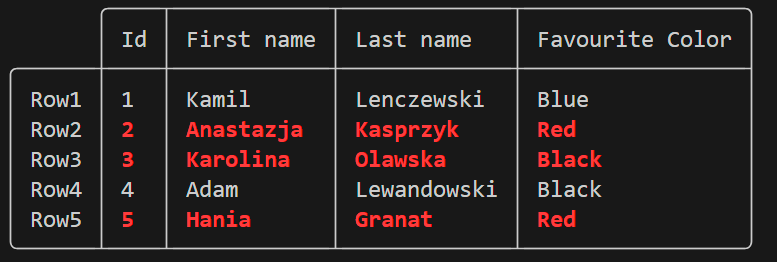
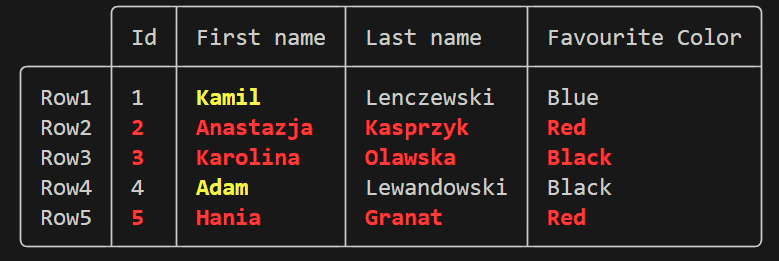
Color mesh added

Changed region(s): [[0.0, 0.0, 0.9884, 0.9808]]

diff --git a/smoothtable/painter.py b/smoothtable/painter.py
@@ -1,22 +1,46 @@
 from typing import Iterable
-from color_condition import ColorCondition
-from extra_variable import ExtraVariable
-from utils import columnsToRowsGen, rowsToColumns
-from constants import COLORS, TEXT_STYLES
 
+from .color_condition import ColorCondition
+from .extra_variable import ExtraVariable
+from .utils import columnsToRowsGen, rowsToColumns, returnList, columnsToRows
+from .constants import COLORS, TEXT_STYLES
+
+
+
+
+class ColorItem:
+    def __init__(self, color=None, style=None):
+        self.color = color
+        self.style = style
+
+    def isEmpty(self):
+        return not self.color and not self.style
 
 def paintString(string, color, style):
-    color = COLORS[color]
-    style = TEXT_STYLES[style]
+    color = COLORS[color] if color else ""
+    style = TEXT_STYLES[style] if style else ""
+
     string = color + style + "{}\033[0m".format(string)
+
     return string
+
+@returnList
+def emptyColumnMesh(size):
+    for _ in range(size):
+        yield ColorItem()
+
+@returnList
+def emptyColumnsMesh(columnsAmount, columnSize):
+    for _ in range(columnsAmount):
+        yield emptyColumnMesh(columnSize)
 
 
 class Painter:
     def __init__(self, colorConditions: Iterable[ColorCondition]):
-        self.colorConditions = colorConditions
+        self.colorConditions = colorConditions        
 
-    def paintArray(self, array, condition: ColorCondition):
+    @returnList
+    def createColumnColorMesh(self, condition, array):
         extra = ExtraVariable()
 
         if condition.initMethod:
@@ -26,30 +50,64 @@ class Painter:
             args = [locals()[argName] for argName in condition.args]
 
             if condition.method(*args):
-                yield paintString(item, condition.color, condition.style)
+                yield ColorItem(condition.color, condition.style)
             else:
-                yield item           
-    
+                yield ColorItem()
 
-    def paintArrays(self, arrays, condition: ColorCondition):
-        for array in arrays:
-            yield list(self.paintArray(array, condition))
+    @returnList
+    def createColorMesh(self, condition, columns):
+        for column in columns:
+            yield self.createColumnColorMesh(condition, column)
 
-    def paint(self, columns):
+    @returnList
+    def createColorMeshes(self, arrays):
         for condition in self.colorConditions:
-            match(condition.type):
-                case 'column':
-                    columns = list(self.paintArrays(columns, condition))
-                case 'row':
-                    rows = columnsToRowsGen(columns)
-                    rows = list(self.paintArrays(rows, condition))
-                    columns = rowsToColumns(rows)
+            if condition.type == 'row':
+                rows = columnsToRows(arrays)
+                mesh = self.createColorMesh(condition, rows)
+                mesh = rowsToColumns(mesh)
+                yield mesh
+            
+            if condition.type == 'column':
+                yield self.createColorMesh(condition, arrays)
+            
+    def mergeMeshes(self, meshes, columnsAmount, columnSize):
+        finalMesh = emptyColumnsMesh(columnsAmount, columnSize)
 
-        return columns
+        for mesh in meshes:
+            for column, finalColumn in zip(mesh, finalMesh):
+                for item, finalItem in zip(column, finalColumn):
+                    if item.isEmpty():
+                        continue
+
+                    if not finalItem.color:
+                        finalItem.color = item.color
+                    
+                    if not finalItem.style:
+                        finalItem.style = item.style
+        
+        return finalMesh
+
+    def createMesh(self, columns, columnsAmount, columnSize):
+        meshes = self.createColorMeshes(columns) 
+        finalMesh = self.mergeMeshes(meshes, columnsAmount, columnSize)
+        return finalMesh
+
+
+    @returnList
+    def applyMeshToColumn(self, column, columnMesh):
+        for stringItem, colorItem in zip(column, columnMesh):
+            yield paintString(stringItem, colorItem.color, colorItem.style)
+
+    @returnList
+    def applyMesh(self, columns, mesh):
+        for column, columnMesh in zip(columns, mesh):
+            yield self.applyMeshToColumn(column, columnMesh)
+
 
 def main():
     cond = ColorCondition(
-        type='row',
+        type='column',
         args='item',
         method=lambda item: len(item) == 3,
         color='red',

diff --git a/smoothtable/table.py b/smoothtable/table.py
@@ -1,6 +1,11 @@
 from typing import Iterable
 
-from utils import rowsToColumns, stringifyColumns, leftConcat
+from .utils import (
+    rowsToColumns, stringifyColumns, leftConcat, 
+    adjustColumns, adjustLabels, adjustLabelsGen
+)
+
+from .painter import Painter
 
 HORIZONTAL_LINE = '─'
 
@@ -42,20 +47,7 @@ def maxStringLengthGen(columns):
         biggestLength = len(longestString)
         yield biggestLength
 
-def adjustLabels(labels, lengths):
-    if isinstance(lengths, int):
-        lengths = [lengths for _ in range(len(labels))]
 
-    for label, wantedLength in zip(labels, lengths):
-        yield label.ljust(wantedLength, SPACE)
-
-def adjustColumn(column, stringLength):
-    for item in column:
-        yield item.ljust(stringLength, SPACE)
-
-def adjustColumns(columns, maxTextLentghs):
-    for column, maxLength in zip(columns, maxTextLentghs):
-        yield list(adjustColumn(column, maxLength))
 
 
 def mergeLabelsAndColumnsGen(labels, columns):
@@ -134,30 +126,35 @@ def createTable(columnLabels: Iterable[str],
                 rowLabels=None, 
                 columns=None, 
                 rows=None, 
-                painter=None):
+                painter: Painter=None):
 
     validateArgs(columnLabels, rowLabels, columns, rows, painter)
 
     if rows:
         columns = rowsToColumns(rows)
 
-    columns = stringifyColumns(columns)
+    columnsAmount = len(columns)
+    columnSize = len(columns[0])
 
-    labelsAndColumns = mergeLabelsAndColumnsGen(columnLabels, columns)
+    colorMesh = painter.createMesh(columns, columnsAmount, columnSize)
+
+    stringifiedColumns = stringifyColumns(columns)
+
+    labelsAndColumns = mergeLabelsAndColumnsGen(columnLabels, stringifiedColumns)
     maxTextLentghs = list(maxStringLengthGen(labelsAndColumns))
     separationLines = [length * HORIZONTAL_LINE for length in maxTextLentghs]
 
     columnLabels = list(adjustLabels(columnLabels, maxTextLentghs))
-    columns = list(adjustColumns(columns, maxTextLentghs))
+    stringifiedColumns = list(adjustColumns(stringifiedColumns, maxTextLentghs))
 
     if painter:
-       columns = painter.paint(columns)
+       stringifiedColumns = painter.applyMesh(stringifiedColumns, colorMesh)
 
     areRowLabels = rowLabels != None
     areColumnLabels = columnLabels != None
 
     columnLabelsStringLines = createColumnLabelsStringLines(columnLabels, separationLines, areRowLabels)
-    rowsStringLines = createRowsStringLines(columns)
+    rowsStringLines = createRowsStringLines(stringifiedColumns)
     endSegment = createEndSegment(separationLines, areRowLabels)
     
     allLines = columnLabelsStringLines + rowsStringLines + [endSegment]
@@ -175,7 +172,7 @@ def createRowLabelsStringLines(rowLabels):
             yield LEFT_VERTICAL_LINE + label + SPACE
 
     maxLength = len(max(rowLabels, key=len))
-    labels = adjustLabels(rowLabels, maxLength)
+    labels = adjustLabelsGen(rowLabels, maxLength)
 
     spaceLines = [(maxLength + 3) * SPACE] * 2
 

diff --git a/smoothtable/utils.py b/smoothtable/utils.py
@@ -1,11 +1,17 @@
+from .constants import SPACE
+
+def returnList(generator):
+    def iteratedGen(*args, **kwargs):
+        return list(generator(*args, **kwargs))
+    
+    return iteratedGen
+
 # Columns to rows conversion
 
-def columnsToRowGen(columns, rowIndex):
+@returnList
+def columnsToRow(columns, rowIndex):
     for column in columns:
         yield column[rowIndex]
-
-def columnsToRow(columns, rowIndex):
-    return list(columnsToRowGen(columns, rowIndex))
 
 def columnsToRowsGen(columns):
     for rowIndex in range(len(columns[0])):
@@ -49,3 +55,27 @@ def leftConcatGen(lines, linesToAdd):
 
 def leftConcat(lines, linesToAdd):
     return list(leftConcatGen(lines, linesToAdd))
+
+
+
+# adjusting
+
+def adjustLabelsGen(labels, lengths):
+    if isinstance(lengths, int):
+        lengths = [lengths for _ in range(len(labels))]
+
+    for label, wantedLength in zip(labels, lengths):
+        yield label.ljust(wantedLength, SPACE)
+
+def adjustLabels(labels, lengths):
+    return list(adjustLabelsGen(labels, lengths))
+
+@returnList
+def adjustColumnGen(column, stringLength):
+    for item in column:
+        yield item.ljust(stringLength, SPACE)
+
+@returnList
+def adjustColumns(columns, maxTextLentghs):
+    for column, maxLength in zip(columns, maxTextLentghs):
+        yield adjustColumnGen(column, maxLength)

diff --git a/example.py b/example.py
@@ -1,23 +1,11 @@
-from table import createTable
-from color_condition import ColorCondition
-from painter import Painter
-
-# TO DO
-# priorities for conditions to have control
-# on which condition is more important than the other one
-
-# Painter.paint -> createPaintMesh -> array which has color is speicfic positions
-# and then we can jsut concat it so the condtion method will iterate through real objects
-# not strings
-
-# add possibility to create table with labels only in specfic location
-# for example having columns id, name, fcolor we want to display
-# id column but not the label for it
+from smoothtable.table import createTable
+from smoothtable.color_condition import ColorCondition
+from smoothtable.painter import Painter
 
 condition1 = ColorCondition(
     type='row',
     args='array',
-    method=lambda array: array[1].strip().endswith('a'),
+    method=lambda array: array[1][-1] == 'a',
     color='red',
     style='bold'
 )
@@ -25,7 +13,7 @@ condition1 = ColorCondition(
 condition2 = ColorCondition(
     type='column',
     args='array',
-    method=lambda array: array[0].strip() == 'Kamil',
+    method=lambda array: array[0] == 'Kamil',
     color='yellow',
     style='bold'
 )

diff --git a/smoothtable/color_condition.py b/smoothtable/color_condition.py
@@ -1,5 +1,5 @@
 from typing import Iterable
-from constants import COLORS, TEXT_STYLES
+from .constants import COLORS, TEXT_STYLES
 
 class ColorCondition:
     ARGS = ('item', 'index', 'array', 'extra')

diff --git a/smoothtable/constants.py b/smoothtable/constants.py
@@ -12,3 +12,5 @@ COLORS = {
 TEXT_STYLES = {
     "bold": '\033[01m'
 }
+
+SPACE = ' '
